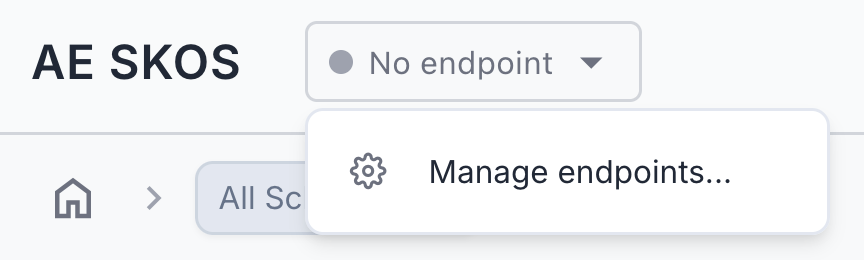
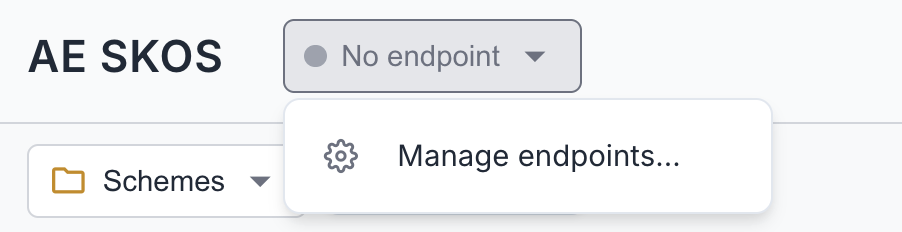
Update user manual with new screenshots and improved documentation
Rewrite First Launch, Browsing Modes, Concept Tree, Collection Details,
and Concept Details sections. Replace and add screenshots throughout.
Move Orphan Concepts under Scheme Browsing, move Tree before Collections.

diff --git a/docs/user-manual/README.md b/docs/user-manual/README.md
@@ -1,14 +1,15 @@
 # AE SKOS User Manual
 
-A browser-based tool for exploring SKOS (Simple Knowledge Organization System) vocabularies via SPARQL endpoints.
+A fast, modern browser for exploring SKOS vocabularies. Lazy-loaded trees, instant search, multilingual support, dark mode, and keyboard shortcuts — all running directly in your browser. No backend, no installation, no data leaves your machine.
 
 ## Table of Contents
 
 - [Getting Started](#getting-started)
 - [Managing Endpoints](#managing-endpoints)
+- [Switching Browsing Modes](#switching-browsing-modes)
 - [Browsing Concept Schemes](#browsing-concept-schemes)
-- [Orphan Concepts](#orphan-concepts)
 - [Navigating the Concept Tree](#navigating-the-concept-tree)
+- [Browsing Collections](#browsing-collections)
 - [Viewing Details](#viewing-details)
 - [Searching](#searching)
 - [Recent History](#recent-history)
@@ -24,18 +25,18 @@ AE SKOS connects directly to SPARQL endpoints in your browser - no backend serve
 
 ### First Launch
 
-When you first open AE SKOS, the Endpoint Manager opens automatically with a welcome message and a list of suggested endpoints to help you get started.
+When you first open AE SKOS, what you see depends on how it was deployed:
 
-AE SKOS can operate in two modes:
-1. **Standard mode** - You add and manage your own endpoints (continue with Quick Start below)
-2. **Pre-configured mode** - Endpoints are already set up by an administrator (skip to [Browsing Concept Schemes](#browsing-concept-schemes))
-
-![Initial screen showing welcome banner and suggested endpoints](screenshot-first-launch.png)
+| Standard Mode | Pre-configured Mode |
+|---------------|---------------------|
+| The Endpoint Manager opens with suggested endpoints for you to add and manage. | Endpoints are already set up by an administrator — you're ready to browse. |
+| <img src="screenshot-mode-standard.png" width="350" alt="Standard Mode"> | <img src="screenshot-mode-preconfigured.png" width="350" alt="Pre-configured Mode"> |
+| Continue with **Quick Start** below | Skip to [Browsing Concept Schemes](#browsing-concept-schemes) |
 
 ### Quick Start
 
 1. Pick a **suggested endpoint** from the list, or click "Add Endpoint" for a custom URL
-2. The endpoint is automatically analyzed
+2. Click **Done** to close the Endpoint Manager
 3. Select a concept scheme from the dropdown
 4. Start browsing!
 
@@ -61,12 +62,15 @@ The Endpoint Manager shows a curated list of public SKOS endpoints at the top:
 
 Once added, endpoints appear in your "My Endpoints" list below.
 
+<img src="screenshot-mode-standard.png" width="500" alt="Endpoint Manager showing suggested endpoints">
+
 ### Adding a New Endpoint
 
 1. Click **Add Endpoint** in the Endpoint Manager
-2. The setup wizard opens with multiple steps:
 
-<img src="screenshot-endpoint-wizard.png" alt="Endpoint wizard showing the connection step" width="720">
+<img src="screenshot-endpoint-wizard.png" alt="Endpoint Manager showing the Add Endpoint button" width="720">
+
+2. The setup wizard opens with multiple steps:
 
 #### Step 1: Connection
 
@@ -80,10 +84,18 @@ Click **Test Connection** to verify the endpoint is reachable.
 
 #### Step 2: Analysis
 
-The wizard automatically analyzes the endpoint to detect:
-- Available named graphs
-- SKOS concept schemes
-- Languages used in labels
+The wizard automatically analyzes the endpoint and shows six capabilities:
+
+| Capability | Description |
+|------------|-------------|
+| SKOS Content | Whether the endpoint contains SKOS concepts or schemes |
+| Concept Count | Total number of SKOS concepts |
+| Concept Schemes | Number of concept schemes found |
+| Relationships | Available relationship types (inScheme, topConceptOf, broader, narrower, etc.) |
+| Graph Support | Whether the endpoint supports named graph queries |
+| SKOS Graphs | How many graphs contain SKOS data |
+
+Languages are also detected during this step and shown in the next step (Language Priorities).
 
 <img src="screenshot-endpoint-analysis.png" alt="Analysis step showing detected schemes and languages" width="500">
 
@@ -128,16 +140,34 @@ Click the endpoint badge in the header and select a different endpoint from the 
 
 ---
 
+## Switching Browsing Modes
+
+Use the breadcrumb dropdown to switch between three browsing modes:
+
+1. Click the first breadcrumb segment (shows "Schemes", "Collections", or "Ordered Collections")
+2. Select your preferred browsing mode from the dropdown
+
+| Mode | Description |
+|------|-------------|
+| [Schemes](#browsing-concept-schemes) | Browse concepts organized by concept schemes (default) |
+| [Collections](#browsing-collections) | Browse concepts organized by SKOS collections |
+| [Ordered Collections](#browsing-ordered-collections) | Browse ordered collections where members are displayed in a defined sequence |
+
+<img src="screenshot-browsing-mode.png" alt="Breadcrumb dropdown showing Schemes, Collections, and Ordered Collections options" width="300">
+
+---
+
 ## Browsing Concept Schemes
 
 ### Selecting a Scheme
 
 Use the scheme dropdown in the breadcrumb bar to select a concept scheme.
 
-<!-- IMAGE: screenshot-scheme-dropdown.png -->
-![Scheme dropdown showing available concept schemes](screenshot-scheme-dropdown.png)
-
 **Filtering Schemes:** For endpoints with many schemes, use the filter input at the top of the dropdown. Type to filter schemes by name - the list updates as you type. The filter automatically clears after you make a selection.
+
+<img src="screenshot-scheme-dropdown.png" alt="Scheme dropdown with filter input" width="400">
+
+The dropdown also includes an **Orphan Concepts & Collections** entry for finding disconnected concepts. If you don't see it, enable it in [Settings](#settings) under "Show Orphan Concepts in Scheme Selector".
 
 When you select a scheme:
 - The tree loads with top-level concepts
@@ -148,23 +178,17 @@ When you select a scheme:
 
 When viewing a scheme (no concept selected), the right panel displays:
 
-- **Title/Labels**: Scheme name in multiple languages
-- **Documentation**: Definitions, scope notes, and other descriptions
-- **Metadata**: Creator, dates, version information
-- **Other Properties**: Any additional RDF properties
+- **Titles**: Dublin Core titles (dct:title, dc:title) and RDFS labels
+- **Labels & Notation**: Preferred, alternative, and hidden labels, plus notation codes
+- **Documentation**: Definitions, descriptions, scope notes, history/change/editorial notes, examples
+- **Metadata**: Creator, publisher, rights, license, identifier, status, version, dates (issued, created, modified), deprecation status
+- **Other Properties**: Any additional RDF properties not covered above
 
-<!-- IMAGE: screenshot-scheme-details.png -->
-![Scheme details panel showing labels and metadata](screenshot-scheme-details.png)
-
-### Deprecated Schemes
+<img src="screenshot-scheme-details.png" alt="Scheme details panel showing labels and metadata" width="500">
 
 Schemes marked as deprecated show a "deprecated" badge next to their name in both the dropdown and the tree.
 
----
-
-## Orphan Concepts
-
-### What Are Orphan Concepts?
+### Orphan Concepts
 
 Orphan concepts are concepts that lack proper hierarchical relationships within their scheme. Specifically, a concept is considered an orphan if it:
 - Has no `skos:broader` relationship to a parent concept
@@ -173,35 +197,21 @@ Orphan concepts are concepts that lack proper hierarchical relationships within 
 
 These concepts exist in the vocabulary but are disconnected from the main hierarchy, making them difficult to discover through normal browsing.
 
-### Finding Orphan Concepts
-
-To view orphan concepts:
+**Finding Orphan Concepts:**
 
 1. Open the scheme dropdown in the breadcrumb bar
-2. Look for "Orphan Concepts" at the top of the list (if orphans exist)
-3. Select "Orphan Concepts" to load them in the tree
+2. Look for "Orphan Concepts & Collections" at the top of the list
+3. Select it to load orphan concepts in the tree
 
-When you select Orphan Concepts:
-- The tree shows all orphan concepts as a flat list
-- The right panel displays information about the orphan collection
-- You can click any concept to view its details
+The first time you access orphan concepts for an endpoint, the application runs a detection process in the background. Results are cached for subsequent access. Note that orphan detection can be quite slow on large endpoints and is not recommended for endpoints with millions of concepts.
 
-### Orphan Detection Process
+<img src="screenshot-orphan-detection.png" alt="Orphan detection in progress" width="500">
 
-The first time you access Orphan Concepts for an endpoint, the application runs a detection process:
-- Progress is displayed as concepts are analyzed
-- Detection runs in the background
-- Results are cached for subsequent access
+Once complete, the tree shows both orphan concepts and orphan collections:
 
-### Hiding the Orphan Selector
+<img src="screenshot-orphan-results.png" alt="Orphan detection results showing orphan concepts and collections" width="500">
 
-If you don't need the orphan concepts feature, you can hide it:
-
-1. Open Settings (⚙ in the header)
-2. Find "Show Orphan Concepts in Scheme Selector"
-3. Toggle it off
-
-The Orphan Concepts option will no longer appear in the scheme dropdown.
+> **Not seeing the orphan selector?** It must be enabled in [Settings](#settings) under "Show Orphan Concepts in Scheme Selector".
 
 ---
 
@@ -211,21 +221,21 @@ The Orphan Concepts option will no longer appear in the scheme dropdown.
 
 The concept tree displays a hierarchical view of concepts within the selected scheme.
 
-<!-- IMAGE: screenshot-concept-tree.png -->
-![Concept tree showing expanded hierarchy with different node types](screenshot-concept-tree.png)
+<img src="screenshot-concept-tree.png" alt="Concept tree showing expanded hierarchy with different node types" width="400">
 
-**Node Icons:**
-| Icon | Meaning |
-|------|---------|
-| 📁 | Scheme (root node) |
-| 🏷 | Concept with children |
-| ⚫ | Leaf concept (no children) |
+Concepts with children show an arrow (▶) that can be expanded to reveal child concepts. Leaf concepts (no children) are shown as circles without an arrow. Children are loaded on-demand as you expand nodes.
 
-### Expanding and Collapsing
+**Node types:**
+- **Folder icon** (orange) — Scheme root node
+- **Label icon** (purple, with arrow) — Concept with children, click arrow to expand
+- **Filled circle** (green) — Top concept with explicit `skos:topConceptOf`
+- **Open circle** (green) — Top concept inferred from `skos:inScheme` only
+- **Small circle** (green) — Leaf concept, no children
+- **Collection icon** (purple) — SKOS collection, may appear alongside concepts within a scheme
 
-- Click the arrow (▶) to expand a node and load its children
-- Click again to collapse
-- Children are loaded on-demand (lazy loading)
+Schemes can contain both individual concepts and collections. Here a scheme shows collections (e.g. "Collection for axle counters") alongside leaf concepts:
+
+<img src="screenshot-tree-collections.png" alt="Tree showing collections alongside concepts within a scheme" width="400">
 
 ### Selecting a Concept
 
@@ -269,8 +279,37 @@ Deprecated concepts are visually indicated with:
 - A "deprecated" badge after the label
 - Reduced opacity (60%)
 
-<!-- IMAGE: screenshot-deprecated-concept.png -->
-![Deprecated concept in tree with badge](screenshot-deprecated-concept.png)
+<img src="screenshot-deprecated-concept.png" alt="Deprecated concept in tree with badge" width="500">
+
+---
+
+## Browsing Collections
+
+SKOS Collections provide an alternative way to organize concepts, independent of the hierarchical broader/narrower relationships.
+
+When in Collections mode:
+- The tree shows top-level collections
+- Expand a collection to see its members (concepts or nested collections)
+- Click a collection to view its details in the right panel
+- Ordered collections display members in their defined sequence
+
+Some schemes contain both collections and individual concepts. Collections appear with a purple icon and are listed alongside regular concepts in the tree:
+
+<img src="screenshot-tree-collections.png" alt="Tree showing collections alongside concepts within a scheme" width="400">
+
+### Collection Details
+
+When you select a collection, the right panel shows its details. The following sections appear (each only if data is available):
+
+- **Labels & Notation** — Preferred, alternative, and hidden labels, plus notation codes
+- **Titles** — Dublin Core titles (dct:title, dc:title) and RDFS labels
+- **Schemes** — Which concept schemes this collection belongs to
+- **Documentation** — Definition, description, scope notes, history/change/editorial notes, examples
+- **Members** — List of member concepts and sub-collections, with a count badge. Members are loaded progressively (labels, hierarchy icons, scheme badges)
+- **Metadata** — Creator, publisher, rights, license, identifier, status, version, dates, deprecation
+- **Other Properties** — Any additional RDF properties
+
+<img src="screenshot-collection-details.png" alt="Collection details panel showing labels and members" width="720">
 
 ---
 
@@ -280,40 +319,20 @@ Deprecated concepts are visually indicated with:
 
 When a concept is selected, the right panel shows comprehensive information:
 
-<!-- IMAGE: screenshot-concept-details.png -->
-![Full concept details panel](screenshot-concept-details.png)
+<img src="screenshot-concept-details.png" alt="Concept details panel" width="500">
 
-#### Labels Section
-- **Preferred Labels**: Primary labels (skos:prefLabel)
-- **Alternative Labels**: Synonyms and variants (skos:altLabel)
-- **Hidden Labels**: Labels for search only (skos:hiddenLabel)
+The details panel shows the following sections (each only appears if data is available):
 
-Labels show language tags when different from your preferred language.
-
-#### Notations
-Concept codes or identifiers (skos:notation) with their datatypes.
-
-#### Documentation
-- **Definitions**: What the concept means
-- **Scope Notes**: Usage guidance
-- **Examples**: Usage examples
-- **History/Change/Editorial Notes**: Administrative information
-
-#### Relationships
-- **Broader**: Parent concepts (click to navigate)
-- **Narrower**: Child concepts (click to navigate)
-- **Related**: Associated concepts (click to navigate)
-
-#### Mapping Properties
-Links to equivalent concepts in other vocabularies:
-- Exact Match, Close Match
-- Broad Match, Narrow Match, Related Match
-
-#### Metadata
-Dublin Core properties like identifier, creation date, modification date, status.
-
-#### Other Properties
-Any additional RDF properties not covered above.
+- **Labels & Notation** — Preferred, alternative, and hidden labels, plus notation codes. Language tags are shown when a label's language differs from your preferred language.
+- **Titles** — Dublin Core titles (dct:title, dc:title) and RDFS labels, if present
+- **Documentation** — Definition, description, comment, scope note, history/change/editorial notes, examples
+- **Hierarchy** — Broader (parent) and narrower (child) concepts, clickable to navigate
+- **Relations** — Related concepts (skos:related), clickable to navigate
+- **Mappings** — Links to equivalent concepts in other vocabularies: exact match, close match, broad match, narrow match, related match
+- **Collections** — Which collections this concept belongs to
+- **Schemes** — Which concept schemes this concept is in
+- **Metadata** — Creator, publisher, rights, license, identifier, status, version, dates (issued, created, modified), deprecation
+- **Other Properties** — Any additional RDF properties not covered above
 
 ### Header Actions
 
